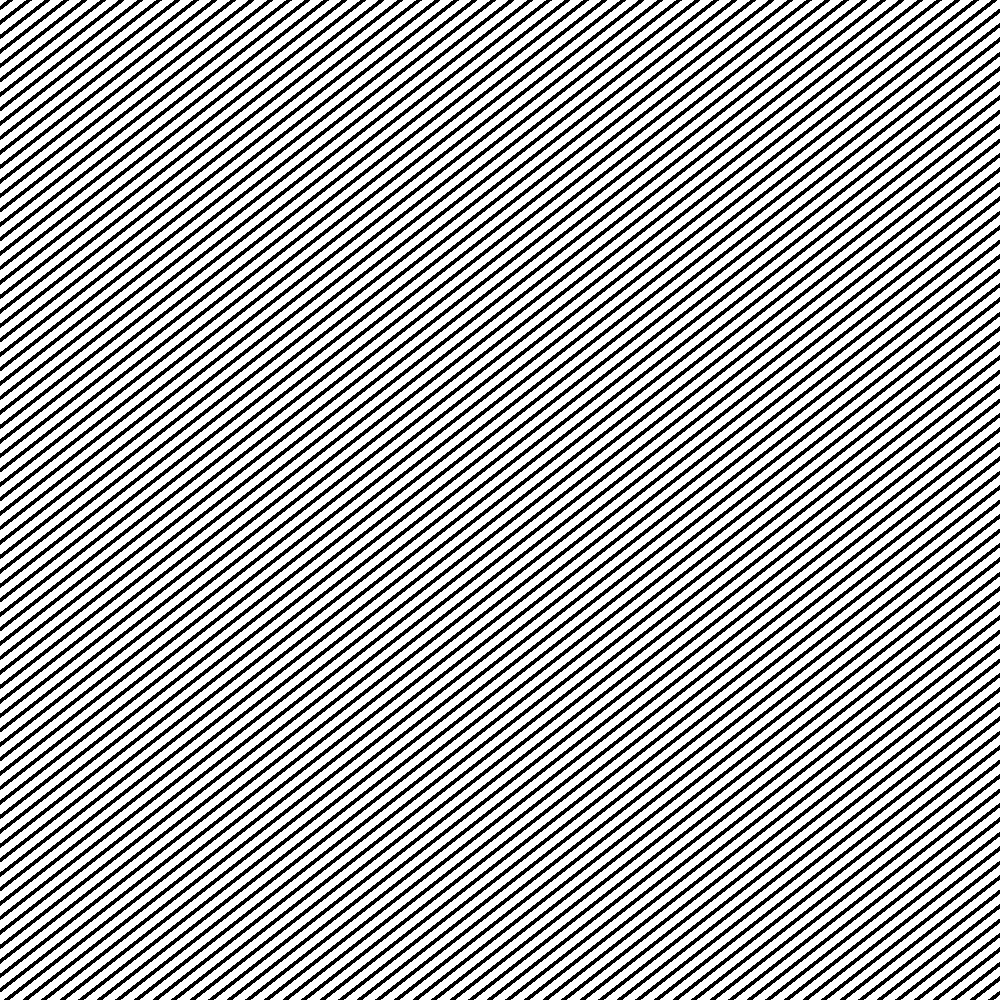
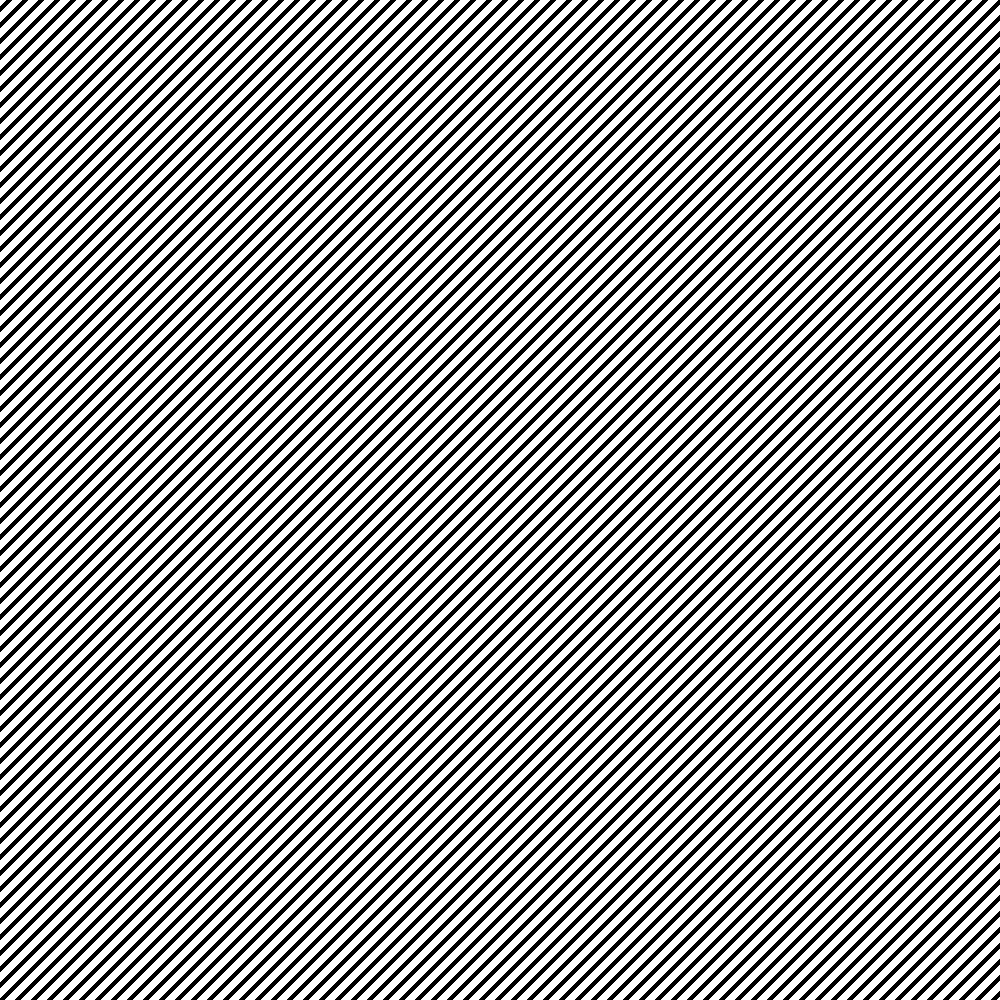
g

diff --git a/redesign.html b/redesign.html
@@ -3,7 +3,7 @@
   <head>
     <meta charset="UTF-8">
     <meta name="viewport" content="width=device-width, initial-scale=1.0">
-    <title>The web site of justnextweek</title>
+    <title>Wha Du Hell</title>
     <!-- The style.css file allows you to change the look of your web pages.
          If you include the next line in all your web pages, they will all share the same look.
          This makes it easier to make new pages for your site. -->
@@ -25,16 +25,20 @@
 
     <div id="flex">
         <aside id="leftSidebar" style="margin-right: 0px;">
-            <h2>Updates</h2>
+            <h2></h2>
             <div class="box">
-                <p>U FUKIN WUT M8</p>
+                <h2>U FUKIN WUT M8</h2>
                 <ul style="padding-left:10px;">
                 </ul>
             </div>
-            <h2 href="https://melankorin.net/"><img src="https://melankorin.net/assets/img/buttons/button-1.gif" 
+            <h2></h2>
+            <div class="button">
+            <a>h</a>
+            </div>
+            <h2 href="https://melankorin.net/"><img style='border: 3px solid #000000' src="https://melankorin.net/assets/img/buttons/button-1.gif" 
                 width="100%" 
                 height="100%" /></h2>
-            <h2><iframe width="100%" height="100%" style="border:none" src="https://dimden.neocities.org/navlink/" name="neolink"></iframe></h2>            </ul>
+            <h2><iframe width="100%" height="100%" style="border: 3px solid #000000" src="https://dimden.neocities.org/navlink/" name="neolink"></iframe></h2>            </ul>
         </aside>
         <main>
             <h1>Where The Fuck Are We</h1>
@@ -55,9 +59,10 @@ these tended to confuse some people, so I only kept
 the images as variables */
 
     :root {
-        --header-image: url('https://hongkongmfr.org/assets/hatching.png');
-        --body-bg-image: url('https://hongkongmfr.org/assets/hatching.png');
-        --sidebar-bg-image: url('https://hongkongmfr.org/assets/hatching.png');
+        --header-image: url('');
+        --body-bg-image: url('https://hongkongmfr.org/assets/hatchingbg.png');
+        --bg-image: url('https://hongkongmfr.org/assets/hatchingbg.png');
+        --sidebar-image: url('https://hongkongmfr.org/assets/hatching.png');
 
         /* colors */
         --content: #ffffff;
@@ -101,11 +106,12 @@ and then link it! Many fonts have separate files for each style
     body {
         font-family: 'Nunito', sans-serif;
         margin: 0;
-        background-color: #ffffffb2;
+        background-color: #ffffff;
         /* you can delete the line below if you'd prefer to not use an image */
-        background-size: 65px;
+        background-size: 60px;
         color: #fceaff;
         background-image: var(--body-bg-image);
+        background-size: 100%;
     }
 
     * {
@@ -197,8 +203,9 @@ you can add them directly to the <div id="header"></div> element! */
 if you want to style them separately,
 create styles for #leftSidebar and #rightSidebar */
     aside {
-        background-color: ;
+        background-color: #ffffff;
         background-image: var(--sidebar-image);
+        background-size: 275%;
         width: 200px;
         border: 3px solid #000000;
         padding: 20px;
@@ -210,7 +217,7 @@ create styles for #leftSidebar and #rightSidebar */
     /* this is the color of the main content area,
 between the sidebars! */
     main {
-        background-color: #e3e3e3;
+        background-color: #dedede;
         flex: 1;
         padding: 20px;
         border: 3px solid #000000;
@@ -258,9 +265,19 @@ left sidebar is 1, content is 2, and right sidebar is 3! */
 
     /* this is just a cool box, it's the darker colored one */
     .box {
-        background-color: #817a95;
+        background-color: #dedede;
         border: 3px solid #000000;
         padding: 10px;
+    }
+
+    .button {
+        background-color: #dedede;
+        border: 3px solid #000000;
+        padding: 10px;
+    }
+
+    .ads {
+        border: 3px solid #000000;
     }
 
     /* CSS for extras */
